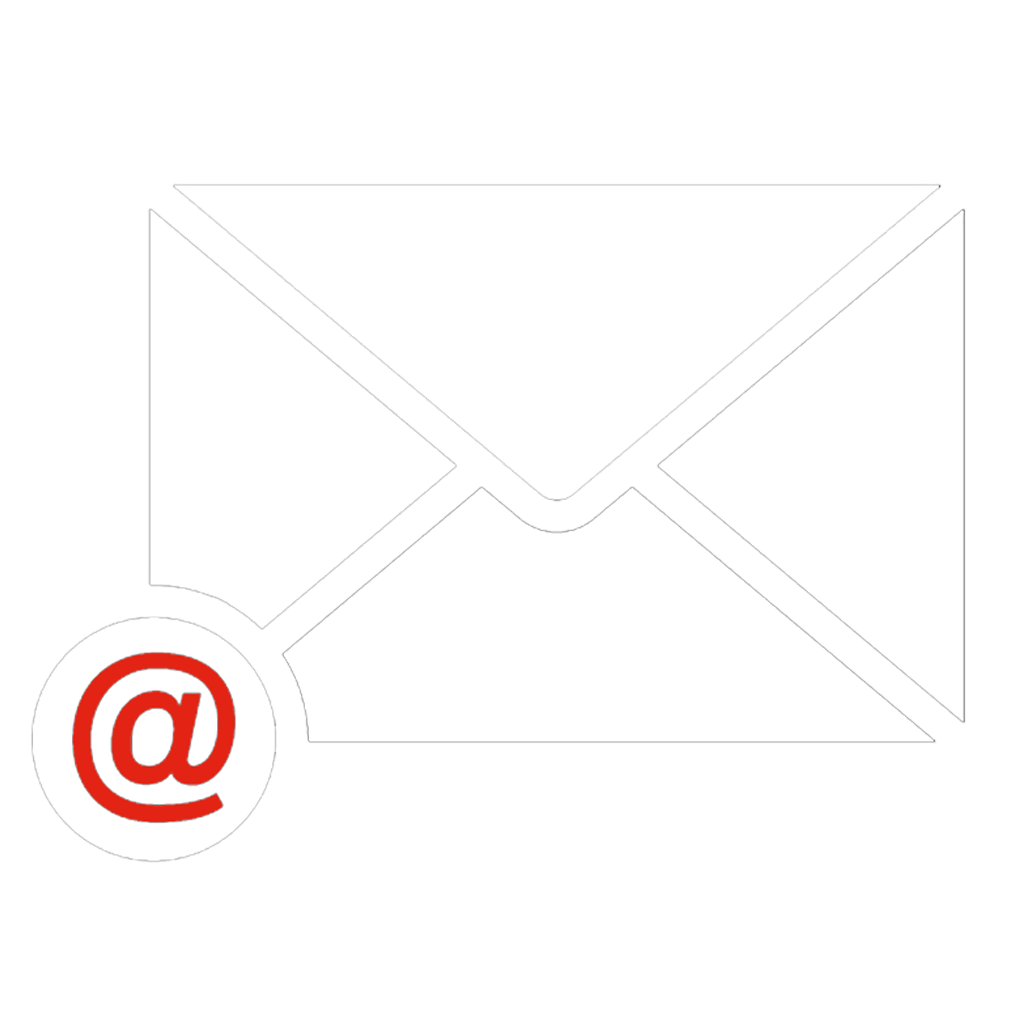
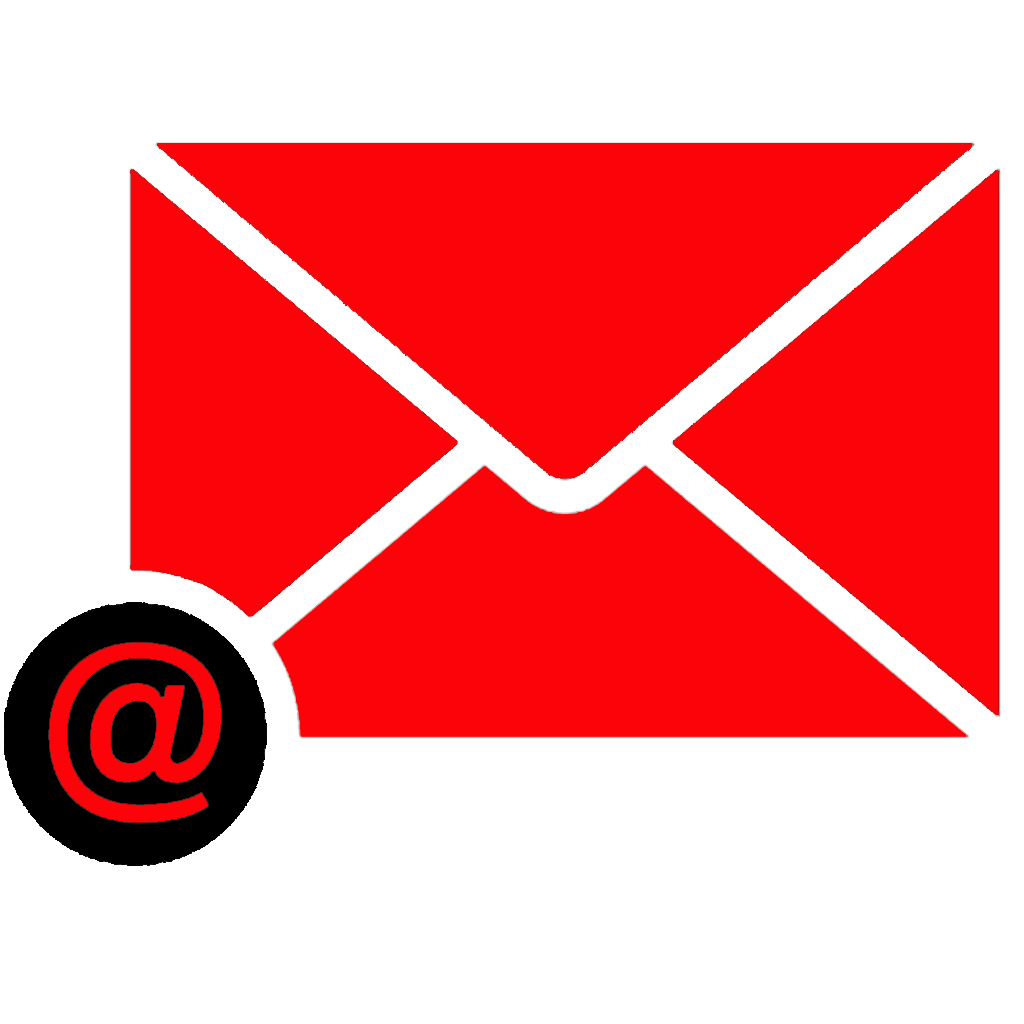
se cambiaron iconos, estilos y se modificó footer

diff --git a/src/components/Contacto.js b/src/components/Contacto.js
@@ -16,25 +16,25 @@ function Contacto() {
           <div>
             <p className="texto-primeroT">
             <a href="https://goo.gl/maps/Jbkdyg5svu2yqCB67" target="_blank" rel="noreferrer"><img className="imagenC" src={Image1} alt="Ubicación" /></a>
-            <p className="text-icons"><a href="https://goo.gl/maps/Jbkdyg5svu2yqCB67" target="_blank" rel="noreferrer">Brandsen 2770, Dorrego - Guaymallén</a></p>
+            <p className="text-icons"><a href="https://goo.gl/maps/Jbkdyg5svu2yqCB67" target="_blank" rel="noreferrer" className="text-icons">Brandsen 2770, Dorrego - Guaymallén</a></p>
             </p>
           </div>
           <div>
             <p className="texto-primeroT">
             <a href="tel:2615069690"><img className="imagenC" src={Image2} alt="Teléfono fijo" /></a>
-            <p className="text-icons"><a href="tel:2615069690"><p>261 431-4024</p></a></p>
+            <p className="text-icons"><a href="tel:2615069690"><p className="text-icons">261 431-4024</p></a></p>
             </p>
           </div>
           <div>
             <p className="texto-primeroT">
             <a href="mailto:grecohnostc@hotmail.com"><img className="imagenC" src={Image3} alt="Correo electrónico" /></a>
-            <p className="text-icons"><a href="mailto:grecohnostc@hotmail.com"><p>grecohnostc@hotmail.com</p></a></p>
+            <p className="text-icons"><a href="mailto:grecohnostc@hotmail.com"><p className="text-icons">grecohnostc@hotmail.com</p></a></p>
             </p>
           </div>
           <div>
             <p className="texto-primeroT">
             <a href="https://api.whatsapp.com/send?phone=5492616963854&text=Hola!%20Visité%20su%20web%20y%20quisiera%20conocer%20más%20sobre%20sus%20productos" target="_blank" rel="noreferrer"><img className="imagenE" src={Image4} alt="WhatsApp" /></a>
-            <p className="text-icons"><a href="https://api.whatsapp.com/send?phone=5492616963854&text=Hola!%20Visité%20su%20web%20y%20quisiera%20conocer%20más%20sobre%20sus%20productos" target="_blank" rel="noreferrer"><p>261 696-3854</p></a></p>
+            <p className="text-icons"><a href="https://api.whatsapp.com/send?phone=5492616963854&text=Hola!%20Visité%20su%20web%20y%20quisiera%20conocer%20más%20sobre%20sus%20productos" target="_blank" rel="noreferrer"><p className="text-icons">261 696-3854</p></a></p>
             </p>
           </div>
         </div>

diff --git a/src/components/Nosotros.js b/src/components/Nosotros.js
@@ -24,10 +24,10 @@ function Nosotros () {
               
             <div className="text-nosotros" data-aos="fade-right" data-aos-duration="600">
                 <p>
-                Las tapas de cilindro ayudan a mantener el <span>motor fresco</span>.  Su diseño permite que el refrigerante circule a través de la junta de la tapa.
+                Las tapas de cilindro ayudan a mantener el <span>motor fresco</span>.
                 </p>
                 <p>
-                    Esta circulación a través de estas y otras partes del sistema de refrigeración evita que el motor se sobrecaliente. 
+                    Su funcionamiento, en conjunto con el refrigerante, evita que el motor se sobrecaliente. 
                 </p>
                 <p>En <span>Greco</span> sabemos de motores, nos importa el cliente y que su vehículo esté óptimo, por ello nuestros productos son de alta calidad y nuestra atención personalizada, adaptada a cada usuario que nos elige hoy o desde siempre.</p>
             </div>

diff --git a/src/index.css b/src/index.css
@@ -242,7 +242,7 @@ span {
 .titleContacto2 {
   text-align: center;
   font-size: 2rem;
-  color: var(--primary-color);
+  color: white;
   text-transform: uppercase;
   font-family: 'Poppins', sans-serif;
   margin-top: 5rem;
@@ -254,16 +254,19 @@ span {
   margin-top: 3rem;
 }
 .texto-primeroT {
-  color: #e32415;
+  color: #ffffff;
   font-weight: bold;
   font-size: 3rem;
   text-align: center;
 }
 .text-icons {
   font-size: 1.3rem;
-  color: #e32415;
+  color: #f9f9f9;
   font-weight: bold;
   text-align: center;
+}
+.text-icons:hover {
+  color: var(--primary-color);
 }
 .imagenD {
   width: 25%;
@@ -272,10 +275,12 @@ span {
 .imagenC {
   width: 15%;
   height: 15%;
+  filter: drop-shadow(3px 5px 20px red)
 }
 .imagenE {
   width: 15%;
   height: 15%;
+  filter: drop-shadow(3px 5px 20px red)
 }
 a {
   text-decoration: none;
@@ -344,5 +349,9 @@ footer {
   flex-direction: row;
   justify-content: space-between;
   align-items: center;
+}
+.text-footer {
+  text-align: center;
+  color: white;
 }
 

diff --git a/src/components/Footer.js b/src/components/Footer.js
@@ -1,6 +1,4 @@
 import LogoLinkedIn from "../assets/LinkedIn-red.png";
-import LogoInstagram from "../assets/Instagram-red.png";
-import LogoGitHub from "../assets/GitHub-red.png";
 
 function Footer() {
     return (
@@ -9,9 +7,8 @@ function Footer() {
           <div className="footerContainer">
           <div className="containerFooter">
               <a href="https://www.facebook.com/GrecoHnos" target="_blank" rel="noreferrer"><img src={LogoLinkedIn} width="60" alt="Logo Facebook"/></a>
-              <a href="https://www.instagram.com/esteban_instaok/" target="_blank" rel="noreferrer"><img src={LogoInstagram} width="60" alt="Logo Instagram"/></a>
-              <a href="https://github.com/steve-ux" target="_blank" rel="noreferrer"><img src={LogoGitHub} width="60" alt="Logo GitHub"/></a>
           </div>
+              <p className="text-footer">Greco Hermanos © <span id="get-current-year">{new Date().getFullYear()}</span></p>
           </div>
         </footer>
       </div>

diff --git a/src/form.scss b/src/form.scss
@@ -35,11 +35,39 @@ body {
   margin-left: 5rem;
   background-image: url('./assets/tapa.jpeg');
   background-size: cover;
-  filter: grayscale(100%) blur(.5px);
   background-repeat: no-repeat;
   background-position: center;
+  filter: grayscale(100%) blur(.5px);
+  animation: myAnim 20s ease 0s infinite normal forwards;
 }
 
+@keyframes myAnim {
+	0%,
+	100% {
+		transform: translateY(0);
+	}
+
+	10%,
+	30%,
+	50%,
+	70% {
+		transform: translateY(-8px);
+	}
+
+	20%,
+	40%,
+	60% {
+		transform: translateY(8px);
+	}
+
+	80% {
+		transform: translateY(6.4px);
+	}
+
+	90% {
+		transform: translateY(-6.4px);
+	}
+}
 
 
 .header > h2 {

diff --git a/src/components/FormularioContacto.js b/src/components/FormularioContacto.js
@@ -33,6 +33,7 @@
   
 //   export default Formulario;
 import "../form.scss";
+//import CilindroFalcon from "../assets/tapa.jpeg";
 
 
   function Formulario() {
@@ -55,8 +56,8 @@ import "../form.scss";
     </div>
     </div>
       <div class="right"></div>
-       </div>
-        </>
+      </div>
+    </>
       
     );
   }
